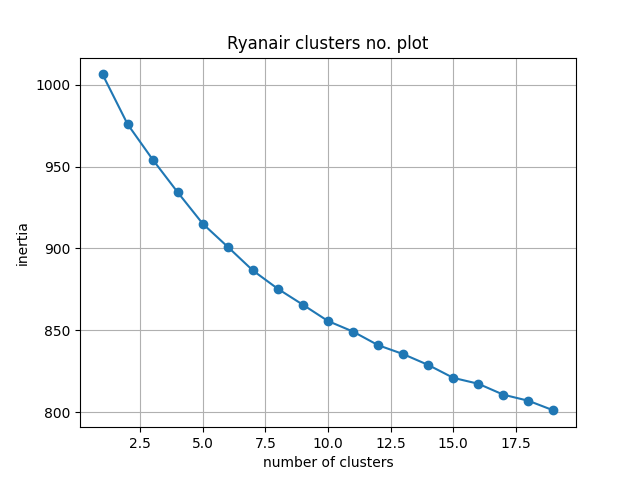
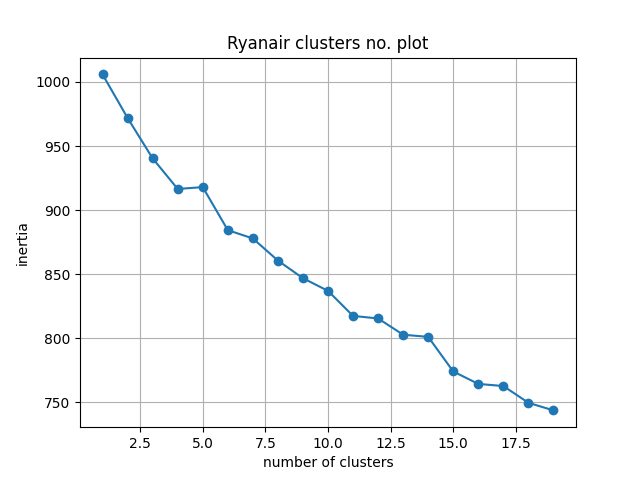
ja juz nie wiem na jakim jestem etapie. W pracy zamknalem gdzies tutaj clustering z TF-IDF

diff --git a/matthausITberatung/DataMining/tfidf/preTfidf.py b/matthausITberatung/DataMining/tfidf/preTfidf.py
@@ -1,13 +1,10 @@
-from matthausITberatung.DataMining.tfidf.TfidfUtils import TfidfUtils
 from matthausITberatung.objectsManager.ObjectsManager import ObjectsManager
 from matthausITberatung.objectsManager.PathsManager import PathsManager
-from sklearn.feature_extraction import text
 from sklearn.feature_extraction.text import TfidfVectorizer
 
-TfidfUtils().prepareData()
-
-opinionsPerAirline = ObjectsManager().getSavedObject('opinionsPerAirline')
-listOfWholeOpinions = ObjectsManager().getSavedObject('listOfWholeOpinions')
+opinionsPerAirline = ObjectsManager().getSavedObject('dataDictOfClearedOpinions')
+# opinionsPerAirline = ObjectsManager().getSavedObject('dictOfBigramedOpinions')
+# listOfWholeOpinions = ObjectsManager().getSavedObject('listOfWholeOpinions')
 
 vectorizer = TfidfVectorizer(
     lowercase=True,
@@ -18,10 +15,12 @@ vectorizer = TfidfVectorizer(
     stop_words=ObjectsManager().getSavedObject(PathsManager().UNION_STOP_WORDS)
 )
 
-commondatavectors = vectorizer.fit_transform(listOfWholeOpinions)
-ObjectsManager().saveObject(commondatavectors, 'commondatavectors')
+# commondatavectors = vectorizer.fit_transform(listOfWholeOpinions)
+# ObjectsManager().saveObject(commondatavectors, 'commondatavectors')
 
 for airline in PathsManager().LIST_OF_AIRLINES:
     ObjectsManager().saveObject(vectorizer.fit_transform(opinionsPerAirline[airline]), str(airline)+'vectors')
 
 ObjectsManager().saveObject(vectorizer, 'vectorizer')
+
+print('Finished')

diff --git a/matthausITberatung/exploratoryDataAnalyser/app/Main2-EDA.py b/matthausITberatung/exploratoryDataAnalyser/app/Main2-EDA.py
@@ -44,6 +44,8 @@ lemmatizedDataDictOfListsWithoutStopWords = {}
 for airline in pathsManager.LIST_OF_AIRLINES:
     lemmatizedDataDictOfListsWithoutStopWords[airline] = stopWordsService.remove_stopwords(lemmatizedDataDictOfLists[airline])
 
+objectManager.saveObject(lemmatizedDataDictOfListsWithoutStopWords, 'dataDictOfClearedOpinions')
+
 lemmatizedDataDictForCorpusWithoutStopWords = {}
 for airline in pathsManager.LIST_OF_AIRLINES:
     lemmatizedDataDictForCorpusWithoutStopWords[airline] = ' '.join(lemmatizedDataDictOfListsWithoutStopWords[airline])
@@ -125,6 +127,12 @@ for airline in pathsManager.LIST_OF_AIRLINES:
             item2.append(bigram.replace(' ','_'))
         helperList.append(item2)
     dataDictOfBigramsUnderscore[airline] = helperList
+
+dictOfBigramedOpinions = {}
+for airline in pathsManager.LIST_OF_AIRLINES:
+    dictOfBigramedOpinions[airline] = [' '.join(item) for item in dataDictOfBigramsUnderscore[airline]]
+
+objectManager.saveObject(dictOfBigramedOpinions, 'dictOfBigramedOpinions')
 
 dataDictOfBigramsUnderscoreForCorpus = {}
 for airline in pathsManager.LIST_OF_AIRLINES:

diff --git a/matthausITberatung/DataMining/tfidf/preTfidfPlot.py b/matthausITberatung/DataMining/tfidf/preTfidfPlot.py
@@ -1,16 +1,16 @@
 from matthausITberatung.objectsManager.ObjectsManager import ObjectsManager
-from matthausITberatung.dataMiningAnalysis.tfidf.TfidfUtils import TfidfUtils
+from matthausITberatung.DataMining.tfidf.TfidfUtils import TfidfUtils
 
-commondatavectors = ObjectsManager().getSavedObject('commondatavectors')
+# commondatavectors = ObjectsManager().getSavedObject('commondatavectors')
 lufthansavectors = ObjectsManager().getSavedObject('lufthansavectors')
 ryanairvectors = ObjectsManager().getSavedObject('ryanairvectors')
 wizzairvectors = ObjectsManager().getSavedObject('wizz-airvectors')
 
 print('Pre plots')
 
-TfidfUtils().showExpectedClustersPlot(commondatavectors, 'Whole opinions clusters no. plot'))
+# TfidfUtils().showExpectedClustersPlot(commondatavectors, 'Whole opinions clusters no. plot')
 TfidfUtils().showExpectedClustersPlot(lufthansavectors, 'Lufthansa clusters no. plot')
 TfidfUtils().showExpectedClustersPlot(ryanairvectors, 'Ryanair clusters no. plot')
 TfidfUtils().showExpectedClustersPlot(wizzairvectors, 'Wizz-air clusters no. plot')
 
-print('finish')
+print('Finished')

diff --git a/matthausITberatung/plotsManager/app/TopWordsPlot.py b/matthausITberatung/plotsManager/app/TopWordsPlot.py
@@ -11,7 +11,7 @@ dictOfListOf30CountedMostCommonBigrams = objectsManager.getSavedObject(pathsMana
 
 
 for airline in pathsManager.LIST_OF_AIRLINES:
-        topWordsList = dictOfListOf30CountedMostCommonWords[airline]
+        topWordsList = dictOfListOf30CountedMostCommonBigrams[airline]
         topWordsDict = dict(topWordsList)
         print(len(topWordsDict))
         plt.figure(figsize=(15,8))
@@ -19,6 +19,6 @@ for airline in pathsManager.LIST_OF_AIRLINES:
                 list(topWordsDict.values()),
                 tick_label=list(topWordsDict.keys()),
                 align='center', width=0.6)
-        plt.xticks(rotation=55)
+        plt.xticks(rotation=45)
         plt.title(airline, fontsize=20)
         plt.show()

diff --git a/matthausITberatung/DataMining/tfidf/TfidfUtils.py b/matthausITberatung/DataMining/tfidf/TfidfUtils.py
@@ -1,16 +1,11 @@
 from matplotlib import pyplot as plt
 from sklearn.cluster import KMeans
 
-from matthausITberatung.dataCleaner.cleaner.DataCleaner import DataCleaner
-from matthausITberatung.objectsManager.FileReader import FileReader
-from matthausITberatung.objectsManager.ObjectsManager import ObjectsManager
-from matthausITberatung.objectsManager.PathsManager import PathsManager
-
 
 class TfidfUtils:
 
     def showExpectedClustersPlot(self, vectors, title):
-        ###optimum number of clusters
+        ###optimum number of clusters = 3
         plt.clf()
         means = []
         inertias = []

diff --git a/matthausITberatung/plotsManager/app/Wordcloud.py b/matthausITberatung/plotsManager/app/Wordcloud.py
@@ -17,7 +17,7 @@ for airline in pathsManager.LIST_OF_AIRLINES:
 
     wordcloud = WordCloud(width = 1000, height = 500, background_color="white",
                           stopwords=objectsManager.getSavedObject(pathsManager.UNION_STOP_WORDS), colormap="Dark2")\
-        .generate_from_frequencies(dictOfListOf30CountedMostCommonWords[airline])
+        .generate_from_frequencies(dictOfListOf30CountedMostCommonBigrams[airline])
     plt.figure(figsize=(15,8))
     plt.imshow(wordcloud, interpolation="bilinear")
     plt.axis("off")

diff --git a/matthausITberatung/stopWords/app/Main.py b/matthausITberatung/stopWords/app/Main.py
@@ -100,6 +100,7 @@ CUSTOM_STOP_WORDS = ['didnt', 'werent', 'dont', 'doesnt', 'wasnt', 'isnt', 'aren
 #Order is important here, because text.ENGLISH_STOP_WORDS is the frozenset
 UNION_STOP_WORDS = stopWordsListFromShortWords\
     .union(stopWordsListFromShortWords)\
+    .union(CUSTOM_STOP_WORDS)\
     .union(countVectorizer.get_stop_words())
     # .union(potentialStopWords)
 objectManager.saveObject(UNION_STOP_WORDS, pathsManager.UNION_STOP_WORDS)

diff --git a/matthausITberatung/DataMining/tfidf/tf-idf.py b/matthausITberatung/DataMining/tfidf/tf-idf.py
@@ -11,7 +11,7 @@ airlines = PathsManager().LIST_OF_AIRLINES
 numberOfClusters = 3
 
 components = airlines
-components.append('commondata')
+# components.append('commondata')
 
 for component in components:
     plt.clf()
